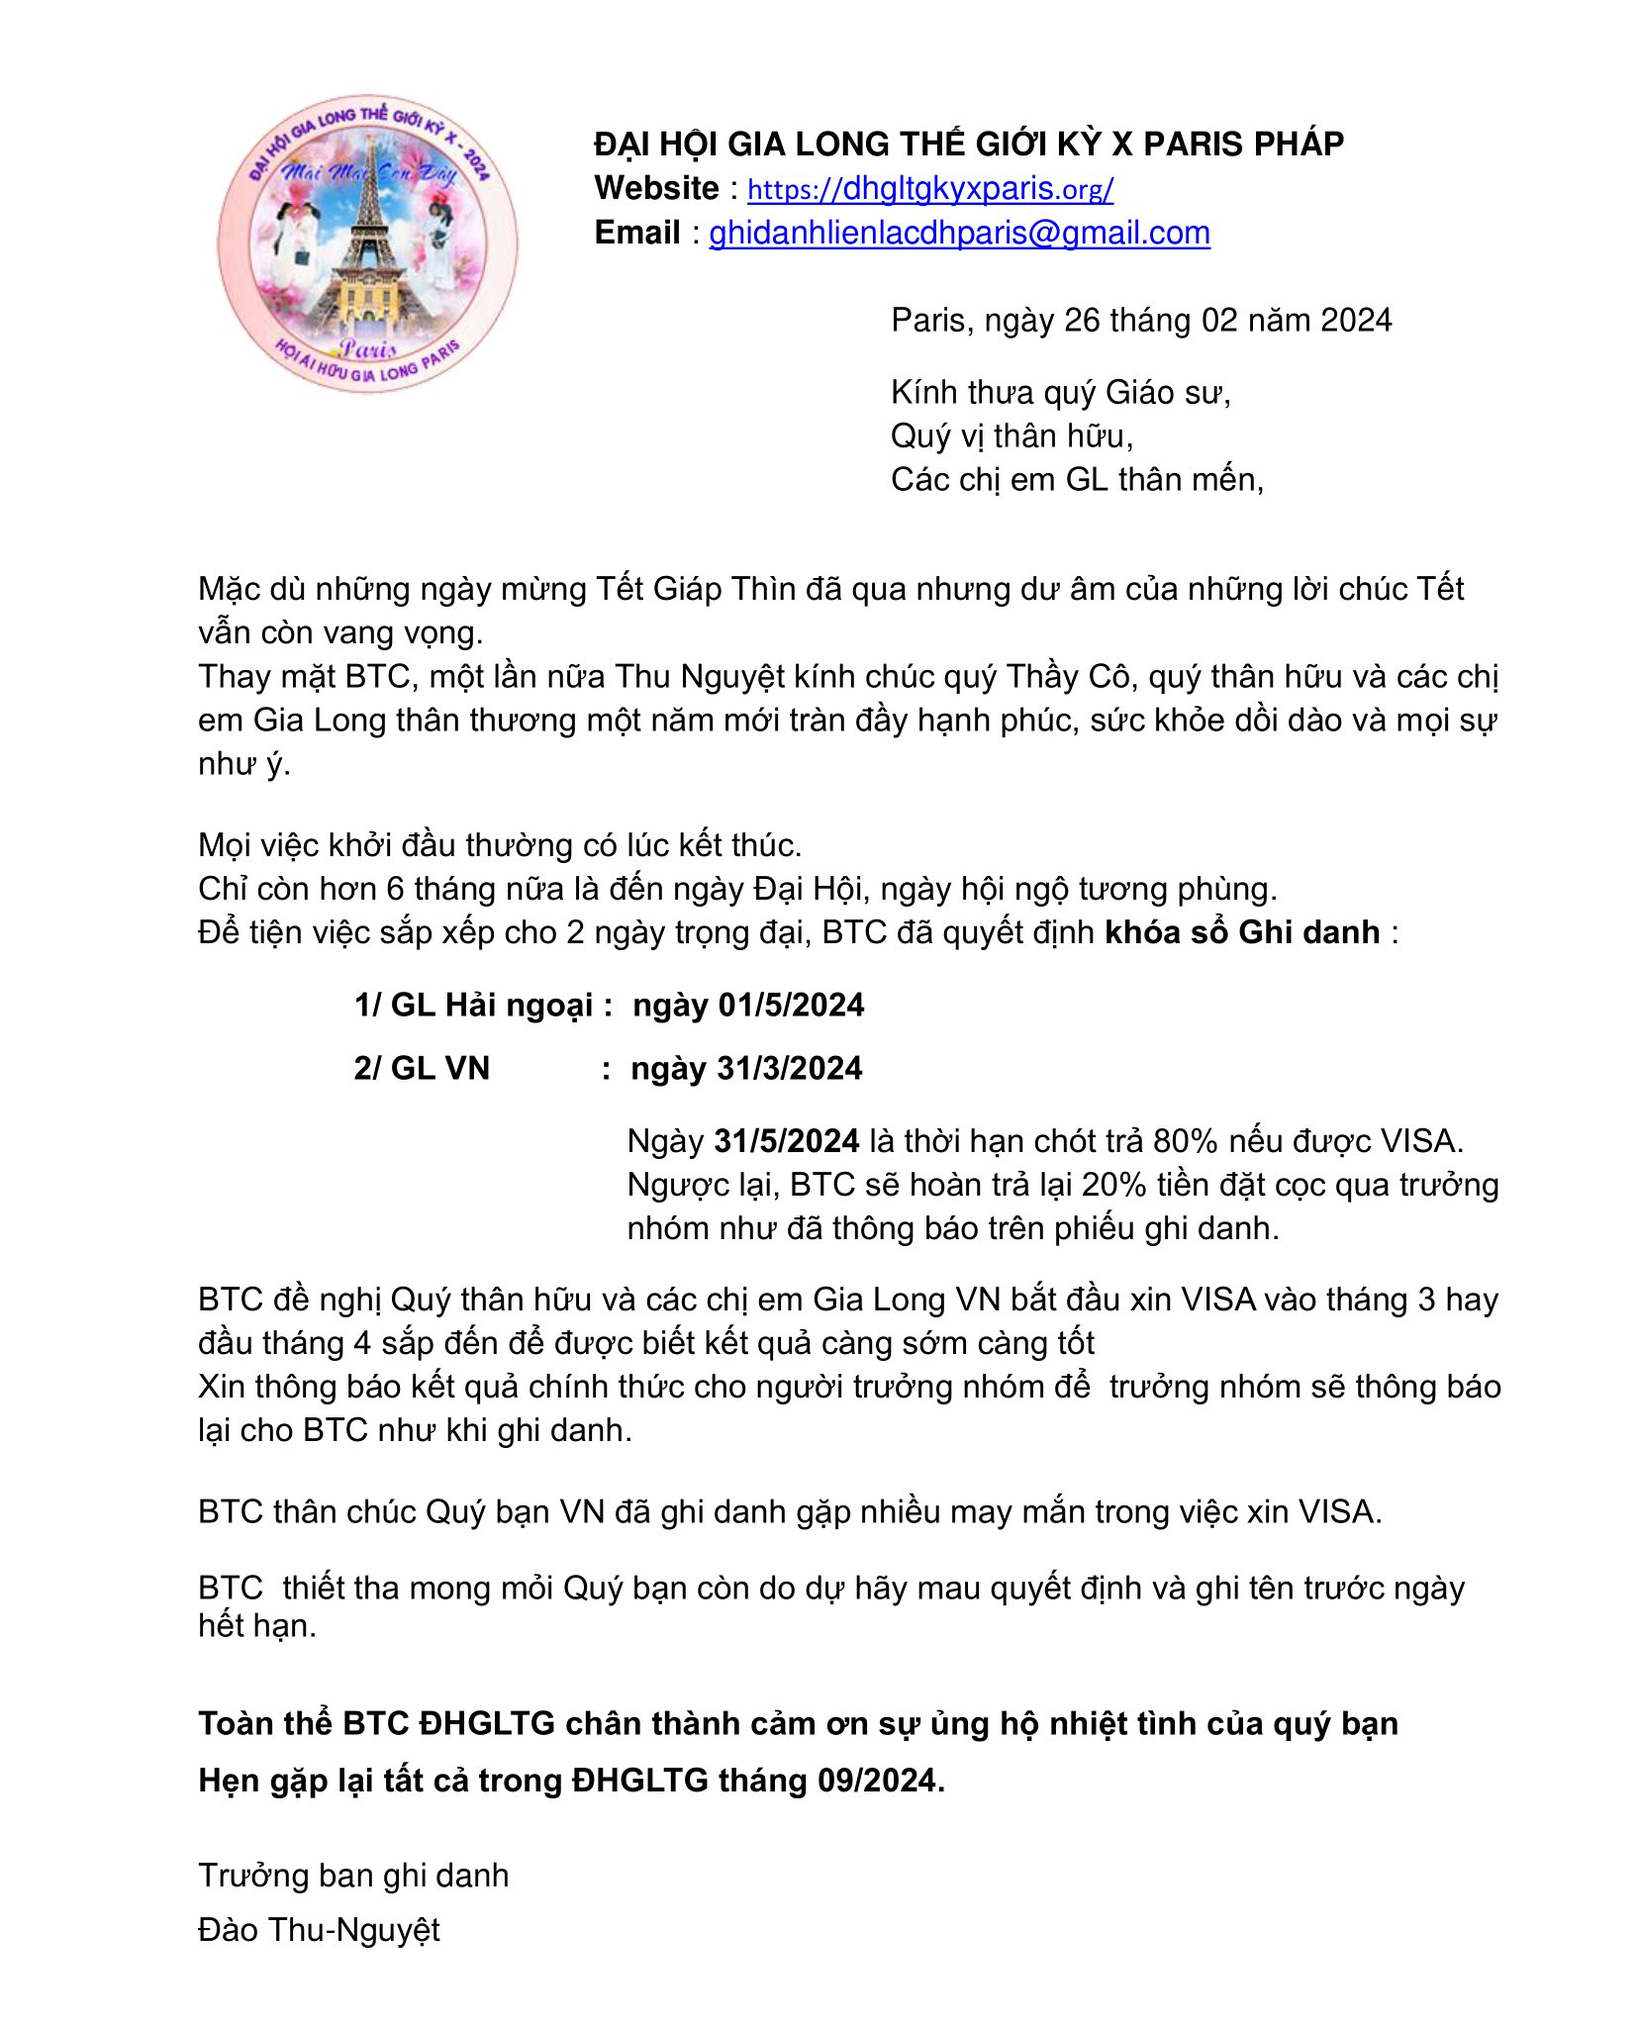
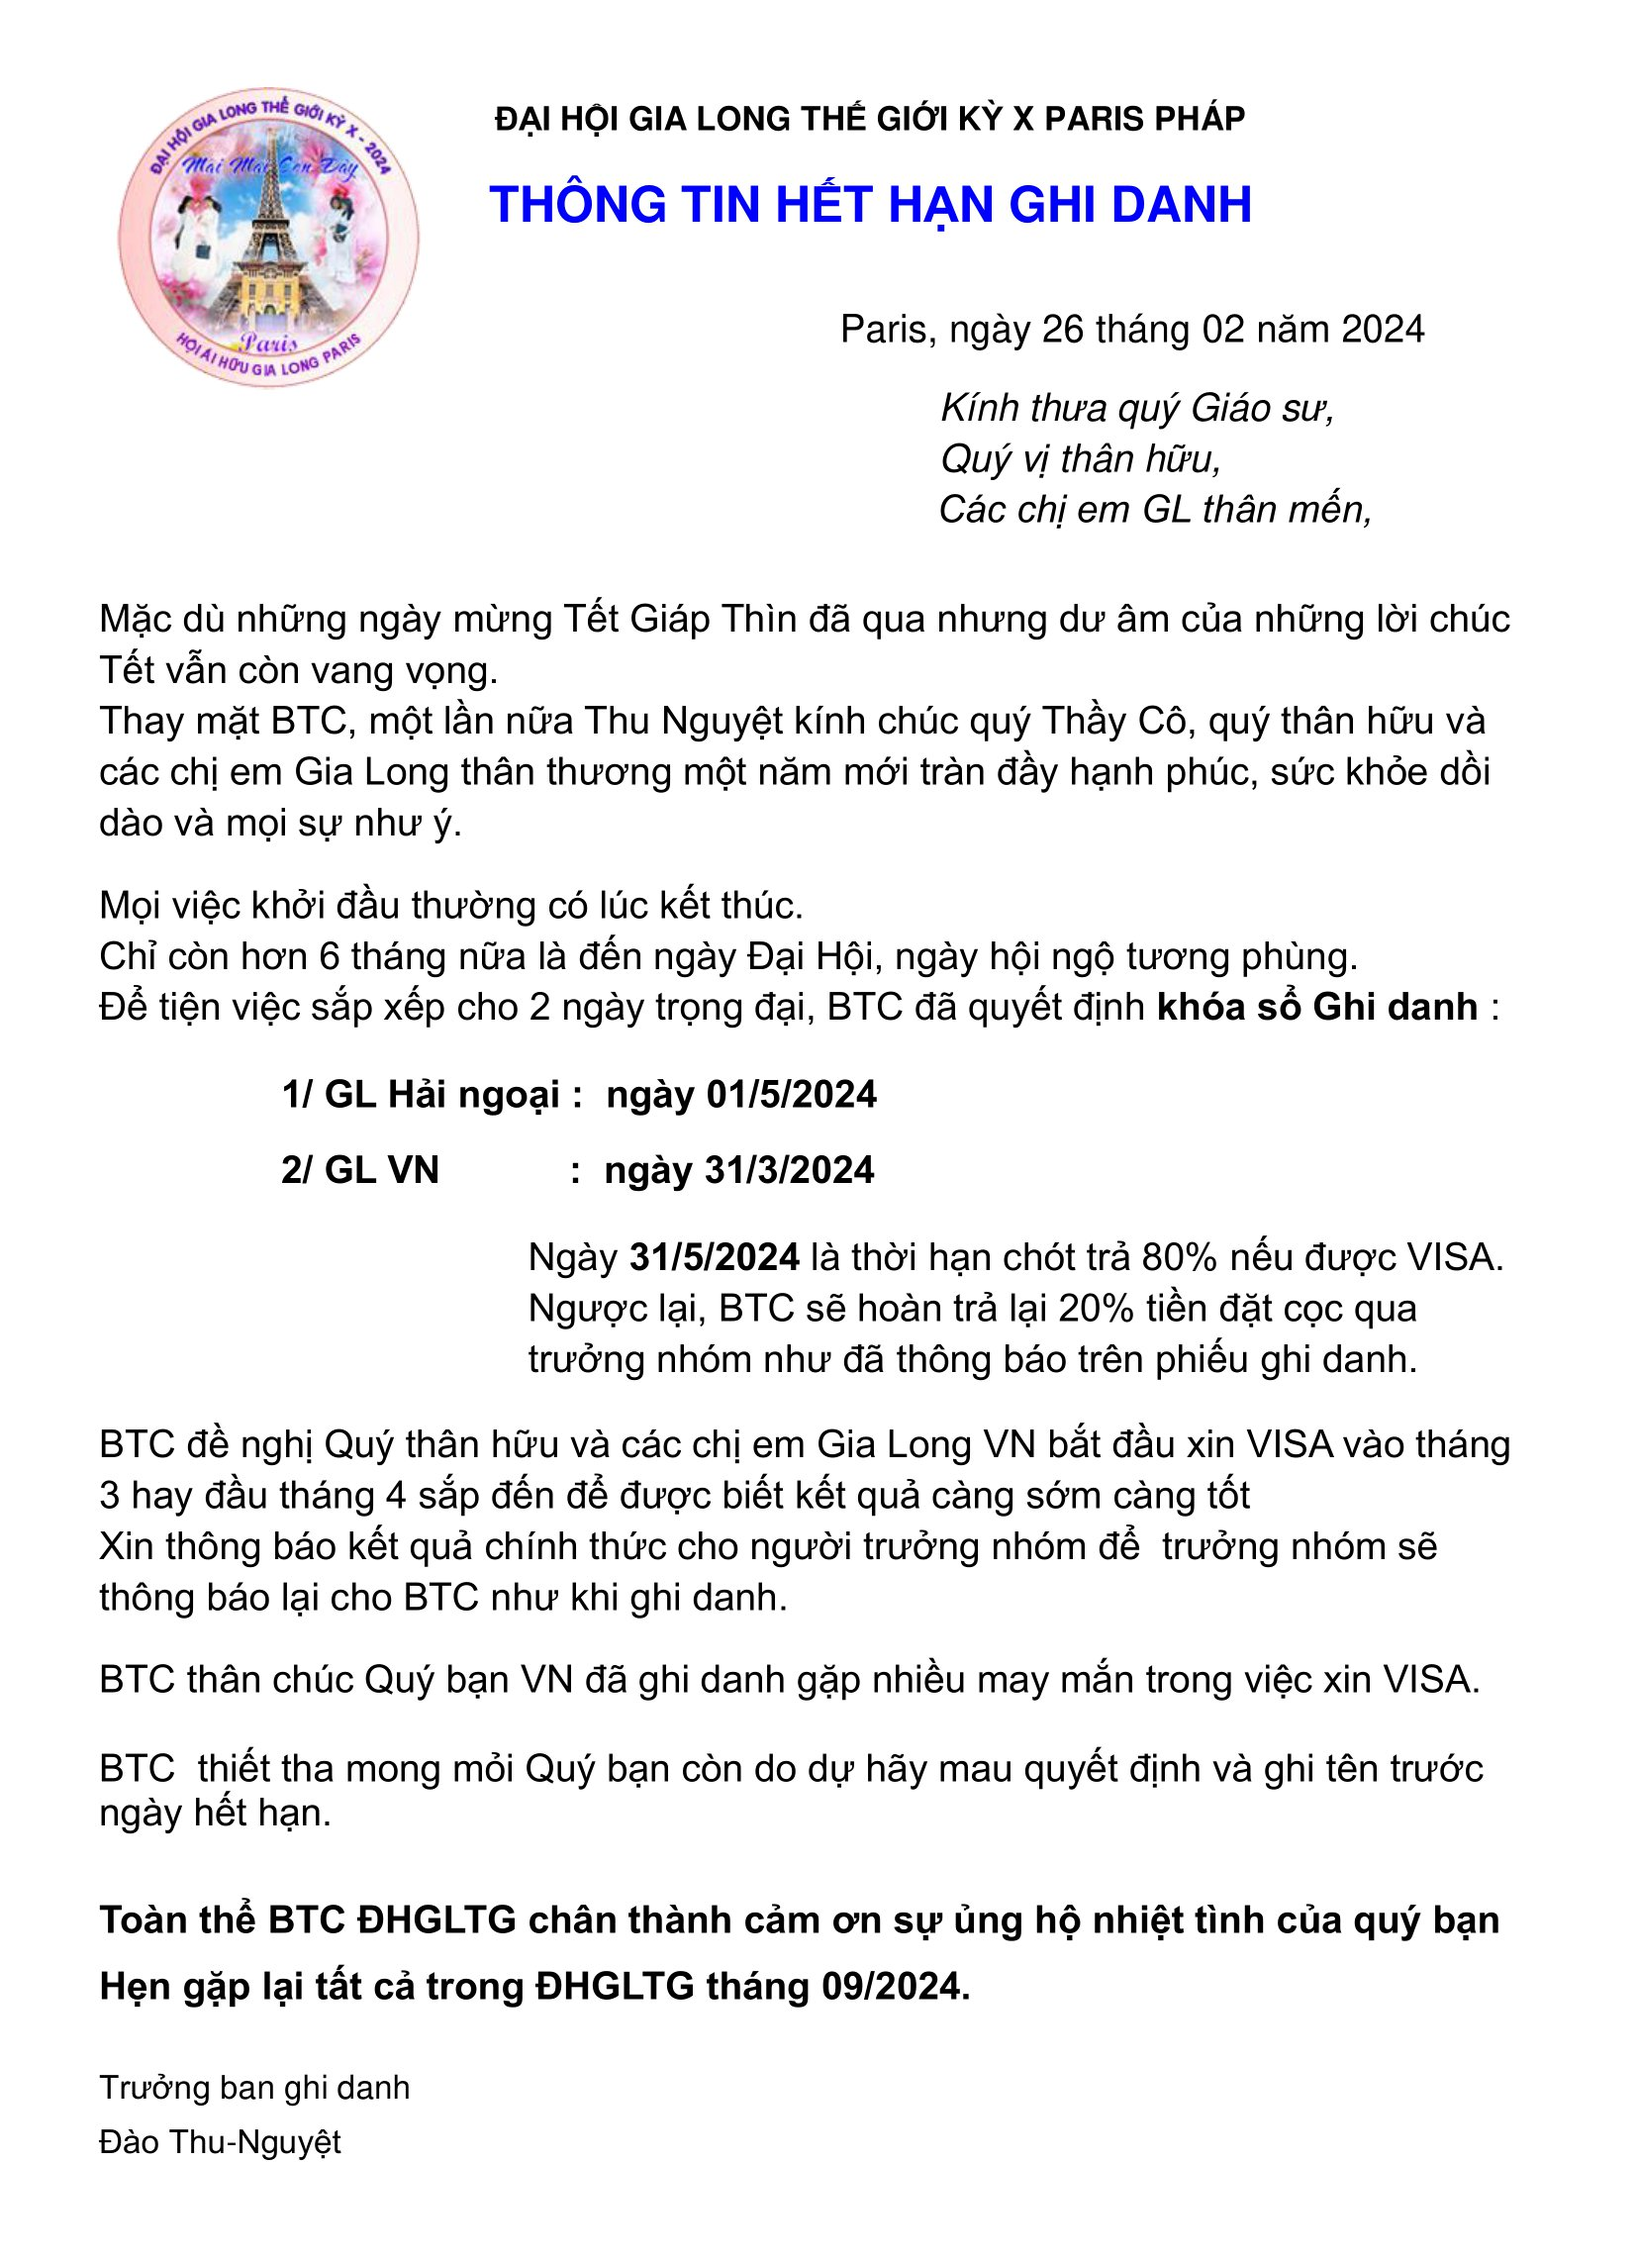
01-03-24
01-03-24

Changed region(s): [[0.0617, 0.0312, 0.925, 0.8125], [0.0617, 0.8438, 0.925, 0.9688]]

diff --git a/Van-nghe/ThuNgoVanNghe.html b/Van-nghe/ThuNgoVanNghe.html
@@ -117,10 +117,33 @@
   </nav>
   <main role="main">
 
-    <!-- Main jumbotron for a primary marketing message or call to action -->
-
     <div class="container">
       <div class="jumbotron">
+        <div class="jumbotron1">
+            <br>
+  				  <p class="paragraphe" align="center"><img src="../images/Logo_dhgltg2024.png" align="left" width="20%"> </p>
+            <p class="paragraphe2" style="margin:0 0 0 33%;"><b>ĐẠI HỘI GIA LONG THẾ GIỚI KỲ X PARIS PHÁP</b><br><br>
+            <p style="margin:0 0 0 33%;color: darkblue; font-size: 32px; font-family: 'Times New Roman', sans-serif;">Thư ngỏ Ban Văn Nghệ 03-2024<br>
+            <p class="paragraphe1" align="center">*</p>
+            <p class="paragraphe2" style="margin:0 0 0 50%;">Paris, ngày 01 tháng 03 năm 2024<br><br>
+            <i>  Kính thưa quý Giáo sư, quý Thân hữu,<br>
+              Thân chào các Hội Gia Long, các chị em Gia Long,</i>
+            </p>
+            <br>
+            <p class="paragraphe2">Năm Quý Mão vừa đi qua, năm Giáp Thìn đang đi tới, Ban Văn nghệ Đại Hội Paris xin kính chúc quý Giáo sư, quý thân hữu, quý chị em Gia Long cùng quý anh rể và các con cháu một năm mới an khang, thịnh vượng và dồi dào sức khỏe.</p>
+            <p class="paragraphe2">Văn nghệ là một trong những món ăn tinh thần không thể thiếu trong hoạt động của trường Nữ Trung Học Gia Long chúng ta. Hằng năm mỗi độ xuân về, trường đều tổ chức Tất niên và đôi khi rộng lớn, vượt ra ngoài khung cửa nhà trường với sự tham gia của giới chức ban Giám học, Giáo sư bên cạnh các các học trò đủ niên khóa. </p>
+            <p class="paragraphe2">Hồi tưởng lại để thấy lòng nao nao, những kỷ niệm êm thắm thời nữ sinh dồn về trong các màn trình diễn cũng của các nữ sinh áo trắng xuân thời ngày nào trên các sân khấu các Đại Hội Gia Long Thế Giới hơn 20 năm nay.</p>
+            <p class="paragraphe2">ĐHGLTG kỳ X tại Paris không ngoại lệ, BTC dành cho các chị em GL bốn phương một sân khấu nghệ thuật khang trang, âm thanh ánh sáng do đội ngũ chuyên viên đảm nhiệm, đêm văn nghệ ĐH sẽ để lại trong ký ức khách tham dự một dư hưởng êm dịu, bùi ngùi, ngọt ngào khó quên. Để đạt được tiêu chuẩn hy hữu ấy, BTC rất hân hoan	sẵn sàng nhận sự đóng góp văn nghệ của người Gia Long trên thế giới. Yêu cầu gửi vidéo và mp3 về địa chỉ email trước ngày <FONT color=red><b>30/6/2024</b></font> :</p>
+            <p class="paragraphe2" align="center"><a href="mailto:vannghedhparis@gmail.com"><FONT color=blue><u>vannghedhparis@gmail.com</u></font></a></p>
+            <p class="paragraphe2">Chúng tôi đã nhận được khá nhiều tiết mục cho hai buổi tiệc Tiền và Đại hội : hợp ca, hoạt cảnh, màn múa, tiểu phẩm….gầy dựng công phu và nghệ thuật. Vì thời gian trình diễn có hạn, chúng tôi phải chọn lọc để cân bằng các màn, văn nghệ ngày Tiền Đại Hội cũng không kém phần quan trọng trước cử tọa thực khách đông đảo.</p>
+            <p class="paragraphe2">Những yêu cầu tham gia sau ngày 30/6 sẽ không được chấp nhận. Mong các bạn thông cảm.</p><br>
+            <p class="paragraphe2" align="right" style="margin:0 9%;">Kính thư,<br>
+                Thân chào,<br>
+                Khúc thị Liên (Hạ Liên)<br>
+                Trưởng ban Văn nghệ<br>
+            </p><br><br>
+        </div>
+
         <div class="jumbotron1">
             <img src="../Van-nghe/ThongTinVanNghe.jpg" alt="" class="btn-primary" width="98%">
         </div>

diff --git a/index.html b/index.html
@@ -184,19 +184,20 @@
             <!--div style="Text-align:Center">
               <img src="images/LuuY.jpg" alt="" width="100%"><br><br>
             </div-->
-            <a href="GhiDanh/ThuNgoGhiDanh.html">&#10048 Thông tin hết hạn ghi danh </a>
+            <a href="#thongbao" onclick="SelThongTin(12)">&#10048 Thông báo BTC tháng 03/2024 </a>
+            <a href="Van-nghe/ThuNgoVanNghe.html">&#10048 Thông báo Ban Văn Nghệ 03/2024</a>
+            <a href="#thongbao" onclick="SelThongTin(13)">&#10048 Cách dùng muỗng nĩa (tiệc Pháp) </a>
+            <a href="GhiDanh/ThuNgoGhiDanh.html">&#10048 <FONT color=red><b>Thông tin hết hạn ghi danh</b></font> </a>
             <a href="Bao-chi/ThuNgoBaoChi.html">&#10048 Thông báo Ban Báo Chí 02/2024</a>
-            <a href="#thongbao" onclick="SelThongTin(11)">&#10048 Thiệp Chúc Tết 2024 </a>
             <a href="HuongDan/HuongDanECLA.html">&#10048 Hướng dẫn đường từ phi trường</a>
             <a href="Du-lich/ThuNgoDuLich.html">&#10048 Ghi Danh Du Lịch Đường Bộ</a>
-            <a href="#thongbao" onclick="SelThongTin(10)">&#10048 Thông báo BTC tháng 01/2024 </a>
             <a href="KhachSan/GhiDanhHotel.html">&#10048 Ghi Danh Hôtel-Di chuyển</a>
             <br>
           </div>
         </div>
         <div class="col-sm-9" style="float:right;padding-right: 0px;">
           <div class="jumbotron3" >
-            <img src="GhiDanh/ThuGhiDanh_02-2024.jpg" width="100%" id="imgtt">
+            <img src="images/ThongBao_03-2024.jpg" width="100%" id="imgtt">
           </div>
         </div>
       </div>

diff --git a/ThongTin.html b/ThongTin.html
@@ -120,6 +120,9 @@
 			<div class="col-sm-3">
 				<div class="menu-tintuc" style="width: 110%;margin-left: 0%;margin-right: 0%;border: 3px solid #e0bdfe;">
              <p><div align="center" style="color: blue; font-size: 19px; font-family: 'Times New Roman', sans-serif;">Thông Tin</div></p>
+             <a href="#thongbao" onclick="SelThongTin(12)">&#10048 Thông báo BTC tháng 03/2024 </a>
+             <a href="Van-nghe/ThuNgoVanNghe.html">&#10048 Thông báo Ban Văn Nghệ 03/2024</a>
+             <a href="#thongbao" onclick="SelThongTin(13)">&#10048 Cách dùng muỗng nĩa (tiệc Pháp) </a>
              <a href="GhiDanh/ThuNgoGhiDanh.html">&#10048 Thông tin hết hạn ghi danh </a>
              <a href="Bao-chi/ThuNgoBaoChi.html">&#10048 Thông báo Ban Báo Chí 02/24 </a>
              <a href="#thongbao" onclick="SelThongTin(11)">&#10048 Thiệp Chúc Tết 2024 </a>
@@ -142,7 +145,7 @@
 			</div>
       <div class="col-sm-9" style="float:right;padding-right: 0px;">
 				<div class="jumbotron3" >
-          <img src="GhiDanh/ThuGhiDanh_02-2024.jpg" width="100%" id="imgtt">
+          <img src="images/ThongBao_03-2024.jpg" width="100%" id="imgtt">
 				</div>
 			</div>
 		</div>

diff --git a/Bao-chi/ThuNgoBaoChi.html b/Bao-chi/ThuNgoBaoChi.html
@@ -140,8 +140,8 @@
         <div class="jumbotron1">
             <br><br>
   				  <p class="paragraphe" align="center"><img src="../images/Logo_dhgltg2024.png" align="left" width="20%"> </p>
-    				<p class="titparagraphe" style="margin:0 0 0 33%;"><b>ĐẠI HỘI GIA LONG THẾ GIỚI KỲ X PARIS PHÁP</p><br>
-            <p class="titparagraphe" align="center">Tháng 02-2024</b><br></p>
+            <p class="paragraphe2" style="margin:0 0 0 33%;"><b>ĐẠI HỘI GIA LONG THẾ GIỚI KỲ X PARIS PHÁP</b><br><br>
+            <p style="margin:0 0 0 33%;color: darkblue; font-size: 32px; font-family: 'Times New Roman', sans-serif;">Thư ngỏ Ban Báo Chí 02-2024<br>
             <p class="paragraphe1" align="center">*</p>
             <p class="paragraphe2" style="margin:0 0 0 60%;">Paris, ngày 26 tháng 02 năm 2024<br><br>
               <i> Kính gởi quý vị Giáo sư,<br>

diff --git a/site.js b/site.js
@@ -137,6 +137,12 @@ function SelThongTin(indMenu) {
             case 11:
               myImg.src='images/ThiepTet2024.jpg';
               break;
+            case 12:
+              myImg.src='images/ThongBao_03-2024.jpg';
+              break;
+            case 13:
+              myImg.src='HinhAnh/NhaHangPhap.jpg';
+              break;
         }
     }
     function SelNienKhoa(indMenu) {
